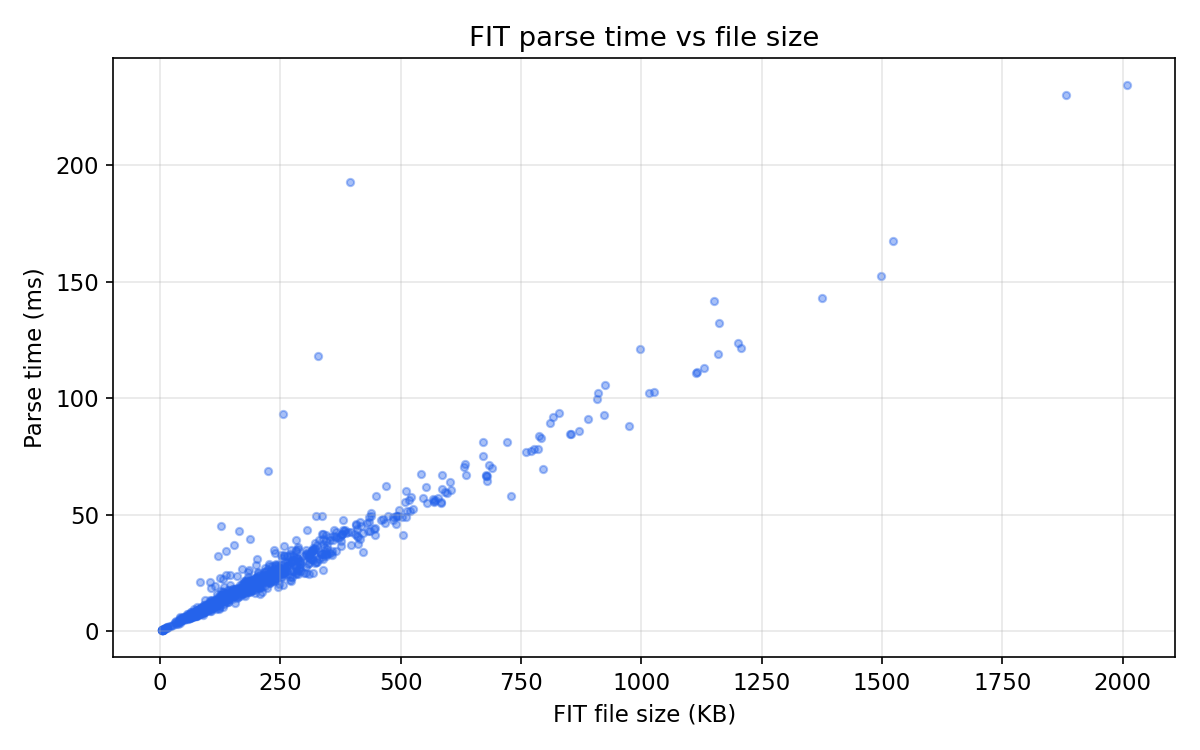
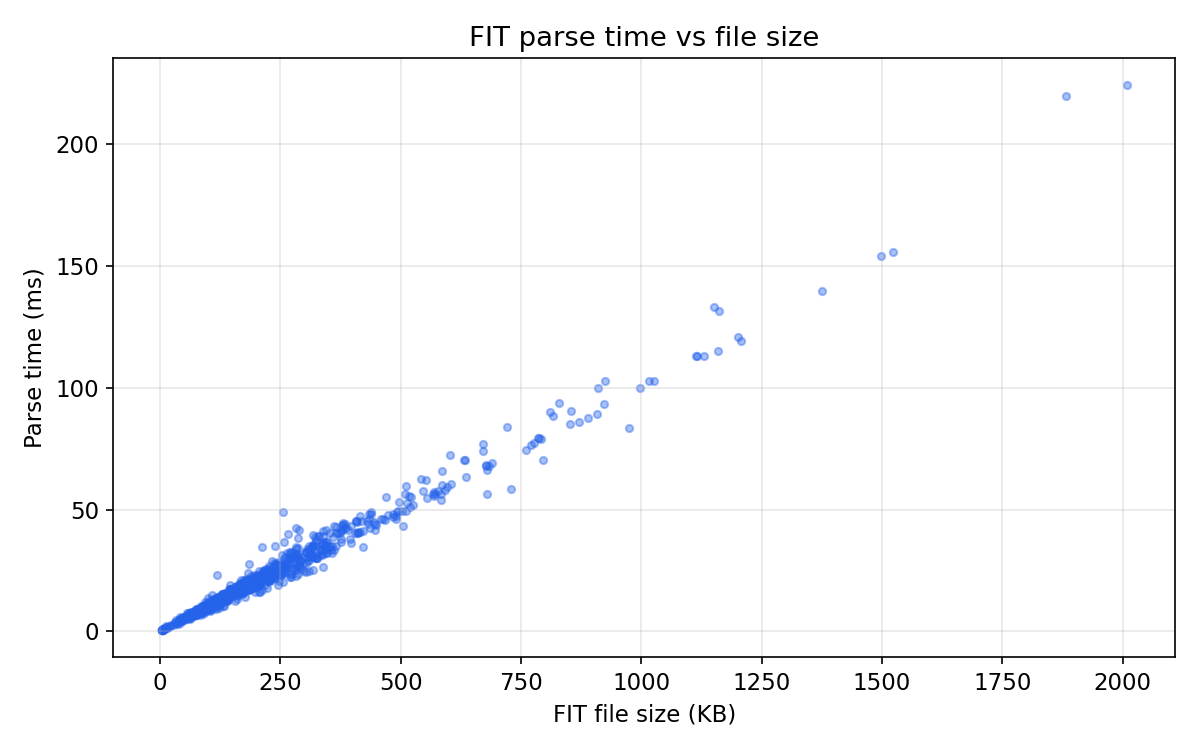
Fix full/metadata discrepancies

diff --git a/tests/test_parser_parity.py b/tests/test_parser_parity.py
@@ -1,0 +1,156 @@
+"""Parser parity tests — verify that the full parser (fitparser crate) and the
+metadata-only scanner (custom binary reader) agree on metadata for all fixtures.
+
+Both code paths read the same FIT file but through completely different
+implementations. These tests are the safety net for any changes to either parser.
+"""
+
+from pathlib import Path
+
+import pytest
+
+from pyroparse._core import parse_fit, parse_fit_metadata
+
+FIXTURES = Path(__file__).parent / "fixtures"
+
+FIXTURE_FILES = [
+    ("test.fit", 1),
+    ("with-developer-fields.fit", 1),
+    ("cycling-rowing-cycling-rowing.fit", 4),
+]
+
+
+def _parse_both(filename: str):
+    """Parse a fixture through both paths, return (full_activities, scan_activities)."""
+    path = str(FIXTURES / filename)
+    full = parse_fit(path)["activities"]
+    scan = parse_fit_metadata(path)["activities"]
+    return full, scan
+
+
+class TestSessionParity:
+    """Both parsers must agree on session count and metadata."""
+
+    @pytest.mark.parametrize("filename,expected_count", FIXTURE_FILES)
+    def test_session_count(self, filename, expected_count):
+        full, scan = _parse_both(filename)
+        assert len(full) == expected_count
+        assert len(scan) == expected_count
+
+    @pytest.mark.parametrize("filename,expected_count", FIXTURE_FILES)
+    def test_sport(self, filename, expected_count):
+        full, scan = _parse_both(filename)
+        for i in range(len(full)):
+            assert full[i]["metadata"]["sport"] == scan[i]["metadata"]["sport"], (
+                f"{filename} activity {i}: sport mismatch"
+            )
+
+    @pytest.mark.parametrize("filename,expected_count", FIXTURE_FILES)
+    def test_sub_sport(self, filename, expected_count):
+        full, scan = _parse_both(filename)
+        for i in range(len(full)):
+            assert full[i]["metadata"]["sub_sport"] == scan[i]["metadata"]["sub_sport"], (
+                f"{filename} activity {i}: sub_sport mismatch"
+            )
+
+    @pytest.mark.parametrize("filename,expected_count", FIXTURE_FILES)
+    def test_start_time(self, filename, expected_count):
+        full, scan = _parse_both(filename)
+        for i in range(len(full)):
+            f_st = full[i]["metadata"]["start_time"]
+            s_st = scan[i]["metadata"]["start_time"]
+            assert f_st == pytest.approx(s_st, abs=1.0), (
+                f"{filename} activity {i}: start_time mismatch ({f_st} vs {s_st})"
+            )
+
+    @pytest.mark.parametrize("filename,expected_count", FIXTURE_FILES)
+    def test_duration(self, filename, expected_count):
+        full, scan = _parse_both(filename)
+        for i in range(len(full)):
+            f_dur = full[i]["metadata"]["duration"]
+            s_dur = scan[i]["metadata"]["duration"]
+            if f_dur is None and s_dur is None:
+                continue
+            assert f_dur == pytest.approx(s_dur, rel=1e-3), (
+                f"{filename} activity {i}: duration mismatch ({f_dur} vs {s_dur})"
+            )
+
+    @pytest.mark.parametrize("filename,expected_count", FIXTURE_FILES)
+    def test_distance(self, filename, expected_count):
+        full, scan = _parse_both(filename)
+        for i in range(len(full)):
+            f_dist = full[i]["metadata"]["distance"]
+            s_dist = scan[i]["metadata"]["distance"]
+            if f_dist is None and s_dist is None:
+                continue
+            assert f_dist == pytest.approx(s_dist, rel=1e-3), (
+                f"{filename} activity {i}: distance mismatch ({f_dist} vs {s_dist})"
+            )
+
+
+class TestDeviceParity:
+    """Both parsers must find the same device manufacturers.
+
+    Note: device counts may differ because the full parser applies
+    attribute_devices() + dedup_devices() while the scanner returns
+    raw DeviceInfo entries. We compare manufacturer sets.
+    """
+
+    @pytest.mark.parametrize("filename,expected_count", FIXTURE_FILES)
+    def test_device_manufacturer_sets(self, filename, expected_count):
+        full, scan = _parse_both(filename)
+        f_mfrs = {d["manufacturer"] for a in full for d in a["metadata"]["devices"]}
+        s_mfrs = {d["manufacturer"] for a in scan for d in a["metadata"]["devices"]}
+        assert f_mfrs == s_mfrs, (
+            f"{filename}: device manufacturer sets differ. "
+            f"Full only: {f_mfrs - s_mfrs}, Scanner only: {s_mfrs - f_mfrs}"
+        )
+
+
+class TestDeveloperSensorParity:
+    """Both parsers must detect the same CIQ developer sensors."""
+
+    @pytest.mark.parametrize("filename,expected_count", FIXTURE_FILES)
+    def test_sensor_count(self, filename, expected_count):
+        full, scan = _parse_both(filename)
+        f_sensors = full[0]["metadata"]["developer_sensors"]
+        s_sensors = scan[0]["metadata"]["developer_sensors"]
+        assert len(f_sensors) == len(s_sensors), (
+            f"{filename}: developer sensor count mismatch"
+        )
+
+    @pytest.mark.parametrize("filename,expected_count", FIXTURE_FILES)
+    def test_sensor_manufacturers(self, filename, expected_count):
+        full, scan = _parse_both(filename)
+        f_names = sorted(s["manufacturer"] for s in full[0]["metadata"]["developer_sensors"])
+        s_names = sorted(s["manufacturer"] for s in scan[0]["metadata"]["developer_sensors"])
+        assert f_names == s_names, (
+            f"{filename}: developer sensor names mismatch ({f_names} vs {s_names})"
+        )
+
+
+class TestMetricsParity:
+    """Scanner and full parser should agree on core metrics.
+
+    The scanner infers metrics from Record field definitions (hardcoded
+    field numbers), while the full parser discovers them from actual data.
+    The scanner may report metrics that are defined but all-null in data
+    (it sees field definitions, not values). We verify the scanner is a
+    superset of the full parser for core metrics.
+    """
+
+    CORE_METRICS = {"heart_rate", "power", "speed", "cadence", "gps",
+                    "altitude", "temperature", "distance"}
+
+    @pytest.mark.parametrize("filename,expected_count", FIXTURE_FILES)
+    def test_scanner_core_metrics_superset(self, filename, expected_count):
+        full, scan = _parse_both(filename)
+        f_metrics = set(full[0]["metadata"]["metrics"])
+        s_metrics = set(scan[0]["metadata"]["metrics"])
+        f_core = f_metrics & self.CORE_METRICS
+        s_core = s_metrics & self.CORE_METRICS
+        missing_from_scanner = f_core - s_core
+        assert not missing_from_scanner, (
+            f"{filename}: scanner missing core metrics found by full parser: "
+            f"{missing_from_scanner}"
+        )

diff --git a/src/lib.rs b/src/lib.rs
@@ -10,7 +10,7 @@ use std::sync::Arc;
 use fields::{is_canonical_column, is_handled_field, normalize_field_name};
 use reference::{
     antplus_type_from_name, classify_developer_field, format_product_name, manufacturer_name,
-    sport_name,
+    sport_name, sub_sport_name,
 };
 use types::{fit_value_to_arrow_type, promote_type, TypedColumn};
 use values::{
@@ -1283,6 +1283,7 @@ const SESSION_START_TIME: u8 = 2;
 const SESSION_SPORT: u8 = 5;
 const SESSION_SUB_SPORT: u8 = 6;
 const SESSION_TOTAL_TIMER_TIME: u8 = 7;
+const SESSION_TOTAL_ELAPSED_TIME: u8 = 8;
 const SESSION_TOTAL_DISTANCE: u8 = 9;
 const SESSION_TIMESTAMP: u8 = 253;
 
@@ -1564,7 +1565,7 @@ impl<'a> FitScanner<'a> {
                     s.sport = Some(sport_name(data[0]).to_string());
                 }
                 SESSION_SUB_SPORT if !data.is_empty() && data[0] != 0xFF => {
-                    s.sub_sport = Some(format!("{}", data[0]));
+                    s.sub_sport = Some(sub_sport_name(data[0]).to_string());
                 }
                 SESSION_START_TIME if data.len() >= 4 => {
                     if let Some(ts) = valid_u32(data, big_endian) {
@@ -1577,7 +1578,14 @@ impl<'a> FitScanner<'a> {
                         s.end_timestamp_us = Some((ts as i64 + FIT_EPOCH_OFFSET) * 1_000_000);
                     }
                 }
-                SESSION_TOTAL_TIMER_TIME if data.len() >= 4 => {
+                SESSION_TOTAL_TIMER_TIME if data.len() >= 4 && s.duration.is_none() => {
+                    // Fallback if total_elapsed_time not present.
+                    if let Some(v) = valid_u32(data, big_endian) {
+                        s.duration = Some(v as f64 / 1000.0);
+                    }
+                }
+                SESSION_TOTAL_ELAPSED_TIME if data.len() >= 4 => {
+                    // Preferred — matches fitparser's decoded output for total_timer_time.
                     if let Some(v) = valid_u32(data, big_endian) {
                         s.duration = Some(v as f64 / 1000.0);
                     }
@@ -1990,4 +1998,5 @@ mod tests {
             assert_eq!(read_u32(&data, false), 0x12345678);
         }
     }
+
 }

diff --git a/src/reference.rs b/src/reference.rs
@@ -27,6 +27,43 @@ pub fn sport_name(v: u8) -> &'static str {
     }
 }
 
+pub fn sub_sport_name(v: u8) -> &'static str {
+    match v {
+        0 => "generic",
+        1 => "treadmill",
+        2 => "street",
+        3 => "trail",
+        4 => "track",
+        5 => "spin",
+        6 => "indoor_cycling",
+        7 => "road",
+        8 => "mountain",
+        9 => "downhill",
+        10 => "recumbent",
+        11 => "cyclocross",
+        12 => "hand_cycling",
+        13 => "track_cycling",
+        14 => "indoor_rowing",
+        15 => "elliptical",
+        16 => "stair_climbing",
+        17 => "lap_swimming",
+        18 => "open_water",
+        20 => "strength_training",
+        21 => "warm_up",
+        22 => "match",
+        23 => "exercise",
+        24 => "challenge",
+        25 => "indoor_skiing",
+        26 => "cardio_training",
+        28 => "e_bike_fitness",
+        37 => "e_bike_mountain",
+        42 => "gravel_cycling",
+        46 => "skate_skiing",
+        254 => "all",
+        _ => "unknown",
+    }
+}
+
 /// Map ANT+ device type string names back to numeric codes.
 /// The fitparser crate decodes these from the FIT profile.
 pub fn antplus_type_from_name(name: &str) -> Option<u8> {

diff --git a/BENCHMARK.md b/BENCHMARK.md
@@ -30,11 +30,11 @@ Each operation is measured once per file (no repeated iterations) across
 
 | Operation | median | p5 | p95 | max |
 |---|--:|--:|--:|--:|
-| **FIT full parse** | **17 ms** | 5.3 ms | 67 ms | 234 ms |
-| **FIT metadata scan** | **0.49 ms** | 0.19 ms | 1.7 ms | 4.8 ms |
-| **Parquet full load** | **1.2 ms** | 0.83 ms | 2.3 ms | 31 ms |
-| **Parquet metadata scan** | **0.17 ms** | 0.14 ms | 0.25 ms | 1.8 ms |
-| **Parquet write** | **1.8 ms** | 0.87 ms | 5.2 ms | 14 ms |
+| **FIT full parse** | **16 ms** | 5.3 ms | 62 ms | 224 ms |
+| **FIT metadata scan** | **0.48 ms** | 0.19 ms | 1.7 ms | 4.0 ms |
+| **Parquet full load** | **1.2 ms** | 0.85 ms | 2.4 ms | 4.3 ms |
+| **Parquet metadata scan** | **0.17 ms** | 0.14 ms | 0.22 ms | 1.7 ms |
+| **Parquet write** | **1.6 ms** | 0.89 ms | 3.9 ms | 8.9 ms |
 
 ### Parquet vs FIT speedup
 
@@ -73,7 +73,7 @@ Loading only `["timestamp", "power"]` instead of all 12 columns:
 
 | Load mode | FIT median | Parquet median |
 |---|--:|--:|
-| All columns | 16 ms | 1.2 ms |
+| All columns | 15 ms | 1.2 ms |
 | Power only | 15 ms | 0.95 ms |
 
 FIT parse time is nearly identical — the Rust decoder must read the full
